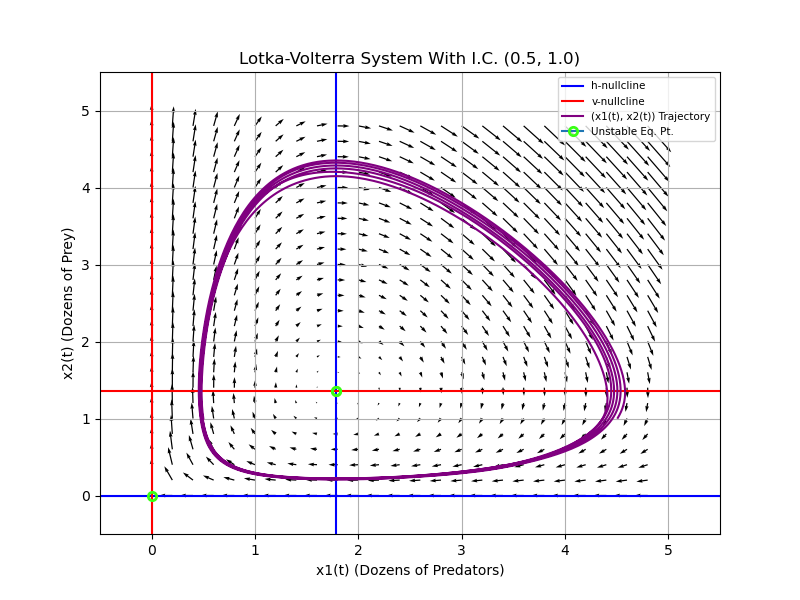
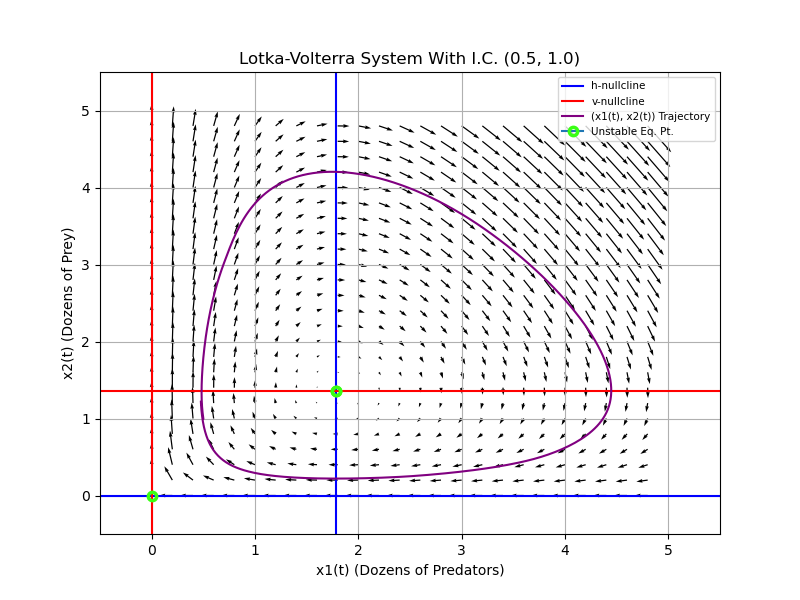
updated B

diff --git a/Code/task_set_b.py b/Code/task_set_b.py
@@ -38,8 +38,8 @@ def plot_vector_field2():
 
 # Task B.3: Solve the Lotka-Volterra system using solve_ivp
 def task_3b_solve_ode_system():
-    t_span = [0, 20]
-    t_eval = np.arange(0, 20, 0.01)
+    t_span = [0, 3.8]
+    t_eval = np.arange(0, 3.8, 0.01)
     f0 = [0.5, 1]
     sol = solve_ivp(LV_system, t_span, f0, t_eval=t_eval, args=params)
     t = sol.t
@@ -60,8 +60,8 @@ def plot_phase_plane(params):
         x_points = eq_sols[i][0]
         y_points = eq_sols[i][1]
         if i == 0:
-            plt.plot(x_points, y_points, marker="o", markerfacecolor='none', markeredgecolor='#39FF14', markeredgewidth=2, label="Unstable Eq. Pt.")
-        plt.plot(x_points, y_points, marker="o", markerfacecolor='none', markeredgecolor='#39FF14', markeredgewidth=2)
+            plt.plot(x_points, y_points, marker="o", markerfacecolor='none', markeredgecolor='#39FF14', markeredgewidth=2.5, label="Unstable Eq. Pt.")
+        plt.plot(x_points, y_points, marker="o", markerfacecolor='none', markeredgecolor='#39FF14', markeredgewidth=2.5)
     plt.title("Lotka-Volterra System With I.C. (0.5, 1.0)")
     plt.xlabel("x1(t) (Dozens of Predators)")
     plt.ylabel("x2(t) (Dozens of Prey)")
@@ -76,9 +76,11 @@ def plot_phase_plane(params):
     plt.show()
 
 # Task B.4: Plot the component curves of the Lotka-Volterra system
+
+
 def task_4_component_curves():
     plt.figure(figsize=(8, 6))
-    x1, x2, t = task_3b_solve_ode_system()
+    x1, x2, t = task_4b_solve_ode_system()
     plt.plot(t, x1, label="x1(t)", color="purple")
     plt.plot(t, x2, label="x2(t)", color="orange")
     plt.title("Lotka-Volterra Component Curves")
@@ -89,6 +91,16 @@ def task_4_component_curves():
     plt.grid()
     plt.savefig("plots/task_b_component_curves.png")
     plt.show()
+    
+def task_4b_solve_ode_system():
+    t_span = [0, 20]
+    t_eval = np.arange(0, 20, 0.01)
+    f0 = [0.5, 1]
+    sol = solve_ivp(LV_system, t_span, f0, t_eval=t_eval, args=params)
+    t = sol.t
+    x1_sol = sol.y[0]
+    x2_sol = sol.y[1]
+    return (x1_sol, x2_sol, t)
 
 def main():
     # Execute each task sequentially
